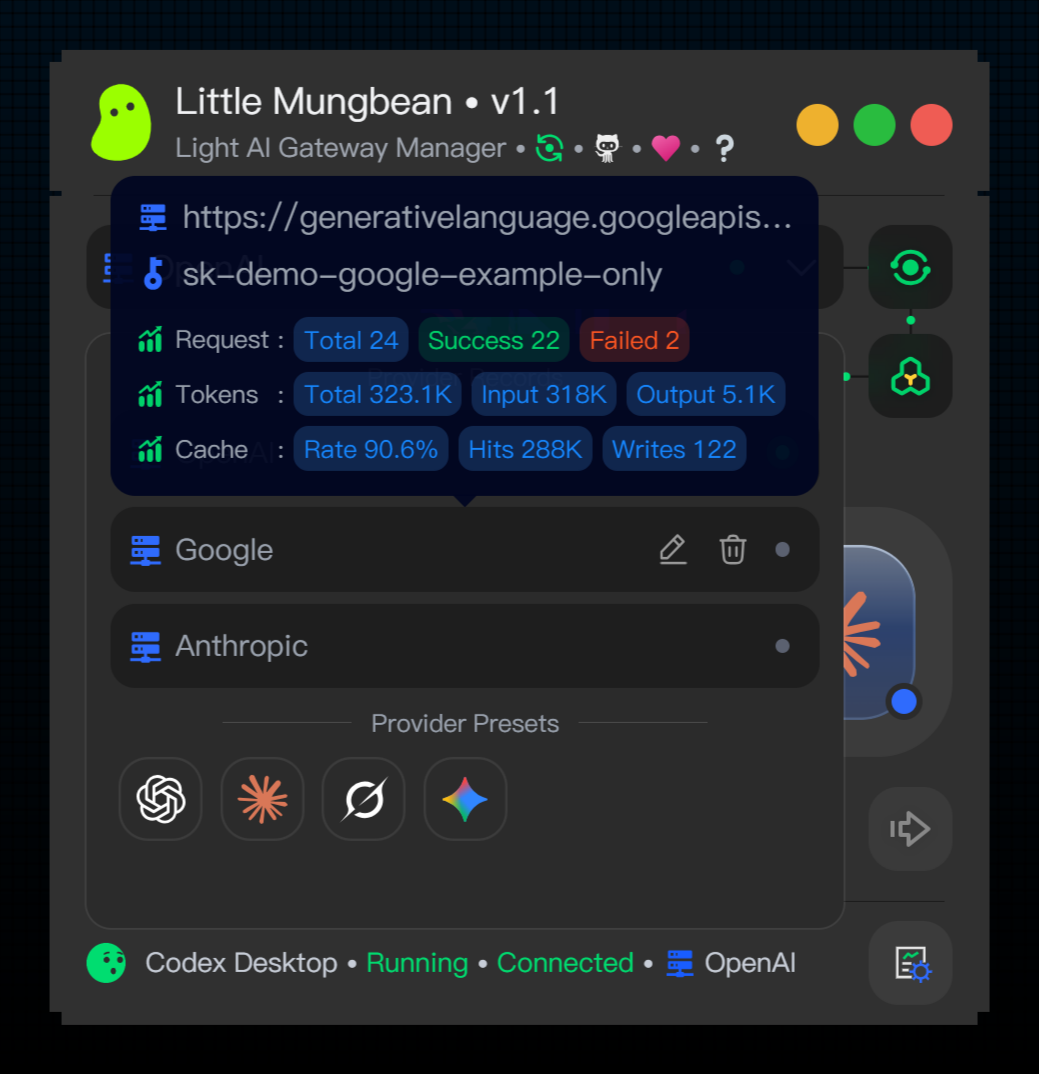
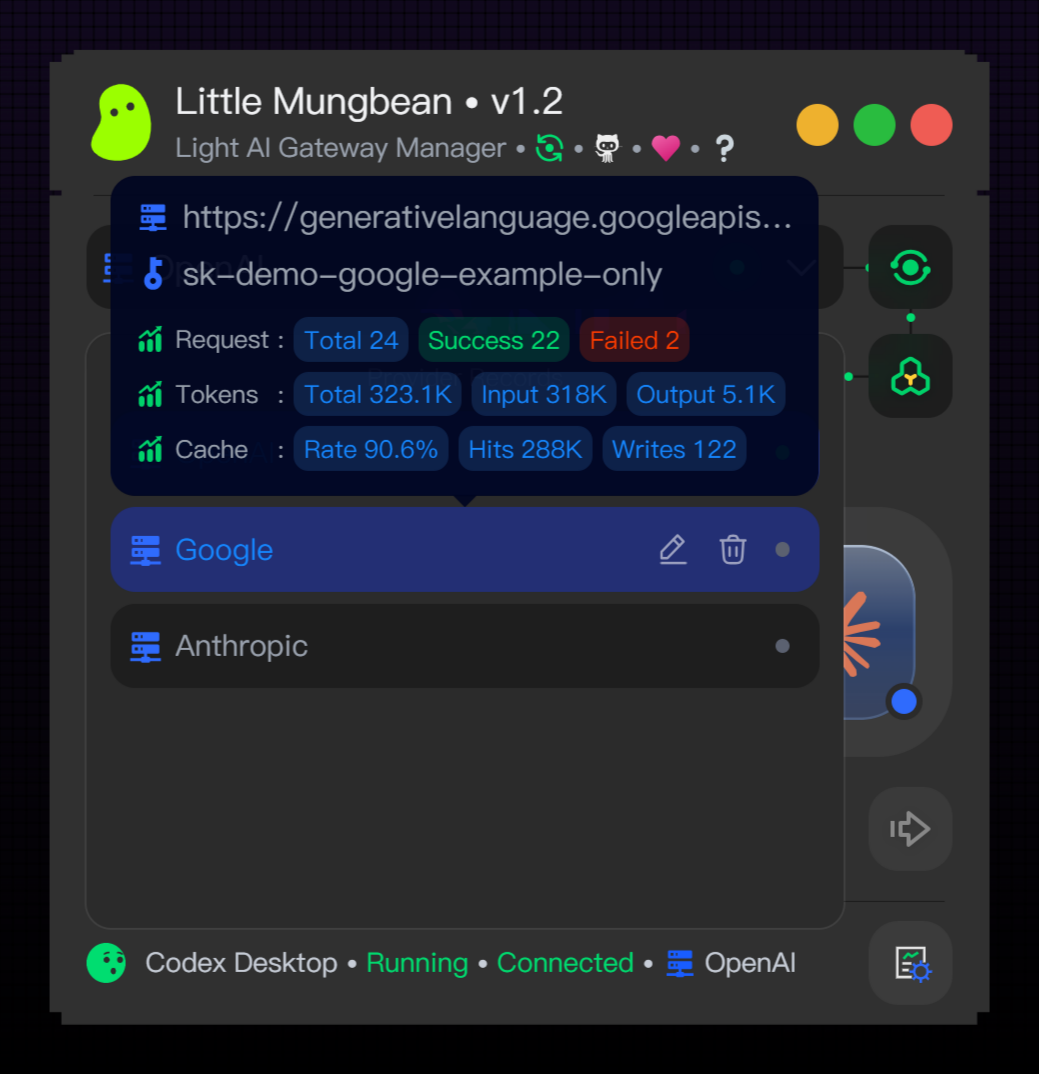
Fix Codex CLI process detection and Windows top cutouts; refresh screenshots

diff --git a/src/platform/windows_impl.rs b/src/platform/windows_impl.rs
@@ -9,8 +9,8 @@ use std::os::windows::process::CommandExt;
 use std::path::{Path, PathBuf};
 use std::time::{SystemTime, UNIX_EPOCH};
 use windows::Win32::Foundation::{
-    CloseHandle, ERROR_ALREADY_EXISTS, ERROR_CANCELLED, FILETIME, GetLastError, HANDLE, HWND,
-    LPARAM, WAIT_FAILED, WAIT_OBJECT_0, WAIT_TIMEOUT, WPARAM,
+    CloseHandle, ERROR_ALREADY_EXISTS, ERROR_CANCELLED, FILETIME, GetLastError, HANDLE, HLOCAL,
+    HWND, LPARAM, LocalFree, WAIT_FAILED, WAIT_OBJECT_0, WAIT_TIMEOUT, WPARAM,
 };
 use windows::Win32::Globalization::GetUserDefaultUILanguage;
 use windows::Win32::Security::WinTrust::{
@@ -34,8 +34,9 @@ use windows::Win32::System::Threading::{
     QueryFullProcessImageNameW, STARTUPINFOW, TerminateProcess, WaitForSingleObject,
 };
 use windows::Win32::UI::Shell::{
-    ACTIVATEOPTIONS, ApplicationActivationManager, IApplicationActivationManager,
-    SEE_MASK_NOCLOSEPROCESS, SHELLEXECUTEINFOW, ShellExecuteExW, ShellExecuteW,
+    ACTIVATEOPTIONS, ApplicationActivationManager, CommandLineToArgvW,
+    IApplicationActivationManager, SEE_MASK_NOCLOSEPROCESS, SHELLEXECUTEINFOW, ShellExecuteExW,
+    ShellExecuteW,
 };
 use windows::Win32::UI::WindowsAndMessaging::{
     EnumWindows, FindWindowW, GetWindowThreadProcessId, HWND_BROADCAST, IsWindowVisible,
@@ -352,6 +353,69 @@ pub fn running_client_processes() -> Result<Vec<(crate::gui_worker::ClientTarget
     Ok(result)
 }
 
+fn windows_command_arguments(command: &str) -> Vec<String> {
+    if command.trim().is_empty() {
+        return Vec::new();
+    }
+    let wide = command.encode_utf16().chain(Some(0)).collect::<Vec<_>>();
+    let mut count = 0;
+    let argv = unsafe { CommandLineToArgvW(PCWSTR(wide.as_ptr()), &mut count) };
+    if argv.is_null() {
+        return Vec::new();
+    }
+    let arguments = if count > 0 {
+        unsafe { std::slice::from_raw_parts(argv, count as usize) }
+            .iter()
+            .map(|argument| unsafe { argument.to_string() }.unwrap_or_default())
+            .collect()
+    } else {
+        Vec::new()
+    };
+    let _ = unsafe { LocalFree(Some(HLOCAL(argv.cast()))) };
+    arguments
+}
+
+fn codex_runs_terminal_session(arguments: &[String]) -> bool {
+    let mut arguments = arguments.iter().map(String::as_str);
+    while let Some(argument) = arguments.next() {
+        if argument == "--" {
+            return true;
+        }
+        // Only the first positional argument is a subcommand. Configuration
+        // values, working directories and prompts may contain service names.
+        if matches!(
+            argument,
+            "-c" | "--config"
+                | "-m"
+                | "--model"
+                | "-p"
+                | "--profile"
+                | "-s"
+                | "--sandbox"
+                | "-a"
+                | "--ask-for-approval"
+                | "-C"
+                | "--cd"
+                | "-i"
+                | "--image"
+                | "--add-dir"
+                | "--enable"
+                | "--disable"
+                | "--remote"
+                | "--remote-auth-token-env"
+                | "--local-provider"
+        ) {
+            arguments.next();
+        } else if !argument.starts_with('-') {
+            return !matches!(
+                argument,
+                "app-server" | "sandbox" | "exec-server" | "mcp-server" | "completion" | "debug"
+            );
+        }
+    }
+    true
+}
+
 fn classify_client_process(
     name: &str,
     path: &str,
@@ -363,18 +427,38 @@ fn classify_client_process(
     } else if is_official_claude_desktop_path(path) {
         Some(ClientTarget::ClaudeDesktop)
     } else {
-        let command = command.replace('\\', "/").to_ascii_lowercase();
-        // Desktop helpers and IDE app-server processes are not terminal sessions.
-        if path.to_ascii_lowercase().contains("\\windowsapps\\")
-            || command.contains("app-server")
-            || command.contains("--type=")
+        let normalized_path = path.replace('\\', "/").to_ascii_lowercase();
+        if normalized_path.contains("/windowsapps/") {
+            return None;
+        }
+        let arguments = windows_command_arguments(command);
+        if arguments
+            .iter()
+            .any(|argument| argument.starts_with("--type="))
         {
+            return None;
+        }
+        let codex_arguments = if name == "codex" {
+            arguments.get(1..)
+        } else if name == "node"
+            && arguments.get(1).is_some_and(|script| {
+                let script = script.replace('\\', "/").to_ascii_lowercase();
+                script.ends_with("/@openai/codex/bin/codex.js")
+            })
+        {
+            arguments.get(2..)
+        } else {
             None
-        } else if name == "codex" || (name == "node" && command.contains("@openai/codex/")) {
-            Some(ClientTarget::CodexCli)
-        } else if name == "claude"
-            || (name == "node" && command.contains("@anthropic-ai/claude-code/"))
-        {
+        };
+        if let Some(codex_arguments) = codex_arguments {
+            // Desktop tool execution uses the same codex.exe as the CLI.
+            // Its sandbox/services and detached CLI daemon are not sessions.
+            return (!normalized_path.contains("/app-server-daemon/")
+                && codex_runs_terminal_session(codex_arguments))
+            .then_some(ClientTarget::CodexCli);
+        }
+        let command = command.replace('\\', "/").to_ascii_lowercase();
+        if name == "claude" || (name == "node" && command.contains("@anthropic-ai/claude-code/")) {
             Some(ClientTarget::ClaudeCode)
         } else {
             None
@@ -2285,6 +2369,72 @@ mod tests {
         assert_eq!(
             classify_client_process("node", r"C:\node\node.exe", "node.exe unrelated.js"),
             None
+        );
+    }
+
+    #[test]
+    fn codex_background_services_do_not_count_as_terminal_sessions() {
+        let path = r"C:\Users\test\AppData\Local\OpenAI\Codex\bin\version\codex.exe";
+        for command in [
+            r#"codex.exe sandbox -c default_permissions="node_repl" -- node.exe kernel.js"#,
+            r#"codex.exe -c "features.code_mode_host=true" app-server --analytics-default-enabled"#,
+            "codex.exe --config=features.code_mode_host=true sandbox -- cmd.exe /c echo test",
+            "codex.exe exec-server",
+            "codex.exe mcp-server",
+            "codex.exe debug models --bundled",
+        ] {
+            assert_eq!(
+                classify_client_process("codex", path, command),
+                None,
+                "{command}"
+            );
+        }
+        assert_eq!(classify_client_process("codex", path, ""), None);
+        assert_eq!(
+            classify_client_process(
+                "codex",
+                r"C:\Users\test\.codex\app-server-daemon\version\codex.exe",
+                "codex.exe"
+            ),
+            None
+        );
+        for command in [
+            r#"node.exe "C:\npm\node_modules\@openai\codex\bin\codex.js" sandbox -- node.exe kernel.js"#,
+            r#"node.exe unrelated.js "C:\npm\node_modules\@openai\codex\bin\codex.js""#,
+        ] {
+            assert_eq!(
+                classify_client_process("node", r"C:\node\node.exe", command),
+                None
+            );
+        }
+    }
+
+    #[test]
+    fn codex_terminal_sessions_allow_service_names_in_options_and_prompts() {
+        use crate::gui_worker::ClientTarget::CodexCli;
+        for command in [
+            "codex.exe",
+            "codex.exe resume --last",
+            "codex.exe fork --last",
+            r#""C:\Program Files\Codex\codex.exe" -C "C:\my app-server" --no-alt-screen"#,
+            r#"codex.exe -c "model=\"app-server\"" resume --last"#,
+            r#"codex.exe --sandbox workspace-write -- "sandbox""#,
+            r#"codex.exe exec "Explain app-server and sandbox --type=renderer""#,
+            r#"codex.exe "Explain app-server and sandbox""#,
+        ] {
+            assert_eq!(
+                classify_client_process("codex", r"C:\tools\codex.exe", command),
+                Some(CodexCli),
+                "{command}"
+            );
+        }
+        assert_eq!(
+            classify_client_process(
+                "node",
+                r"C:\node\node.exe",
+                r#"node.exe "C:\npm\node_modules\@openai\codex\bin\codex.js" resume --last"#
+            ),
+            Some(CodexCli)
         );
     }
 

diff --git a/src/gui.rs b/src/gui.rs
@@ -8665,6 +8665,13 @@ unsafe fn apply_cutout_region(hwnd: HWND, width: i32, height: i32, dpi: u32) {
         unsafe { subtract_region_rect(full, cut, width - corner, height - corner, width, height) };
     }
 
+    let top_width = scale_dip(layout::WINDOW_TOP_CUT_WIDTH, dpi).clamp(0, width);
+    let top_height = scale_dip(layout::WINDOW_TOP_CUT_HEIGHT, dpi).clamp(0, height);
+    if top_width > 0 && top_height > 0 {
+        unsafe { subtract_region_rect(full, cut, 0, 0, top_width, top_height) };
+        unsafe { subtract_region_rect(full, cut, width - top_width, 0, width, top_height) };
+    }
+
     let side_width = scale_dip(layout::WINDOW_SIDE_CUT_WIDTH, dpi).clamp(0, width);
     let side_height = scale_dip(layout::WINDOW_SIDE_CUT_HEIGHT, dpi).clamp(0, height);
     if side_width > 0 && side_height > 0 {

diff --git a/src/gui_layout.rs b/src/gui_layout.rs
@@ -30,6 +30,11 @@ pub const WINDOW_WIDTH: f32 = 380.0;
 
 // 主窗口四角直角切口边长，按 96 DPI 下的逻辑像素定义；设为 0 可关闭。
 pub const WINDOW_CORNER_CUT_SIZE: f32 = 5.0;
+// 顶部左右阶梯切口，贴齐窗口两侧；尺寸按 96 DPI 下的逻辑像素定义。
+#[cfg(windows)]
+pub const WINDOW_TOP_CUT_WIDTH: f32 = 10.0;
+#[cfg(windows)]
+pub const WINDOW_TOP_CUT_HEIGHT: f32 = 2.0;
 // 主窗口左右侧边小切口宽度，按 96 DPI 下的逻辑像素定义；设为 0 可关闭。
 pub const WINDOW_SIDE_CUT_WIDTH: f32 = 5.0;
 // 主窗口左右侧边小切口高度，按 96 DPI 下的逻辑像素定义；设为 0 可关闭。
